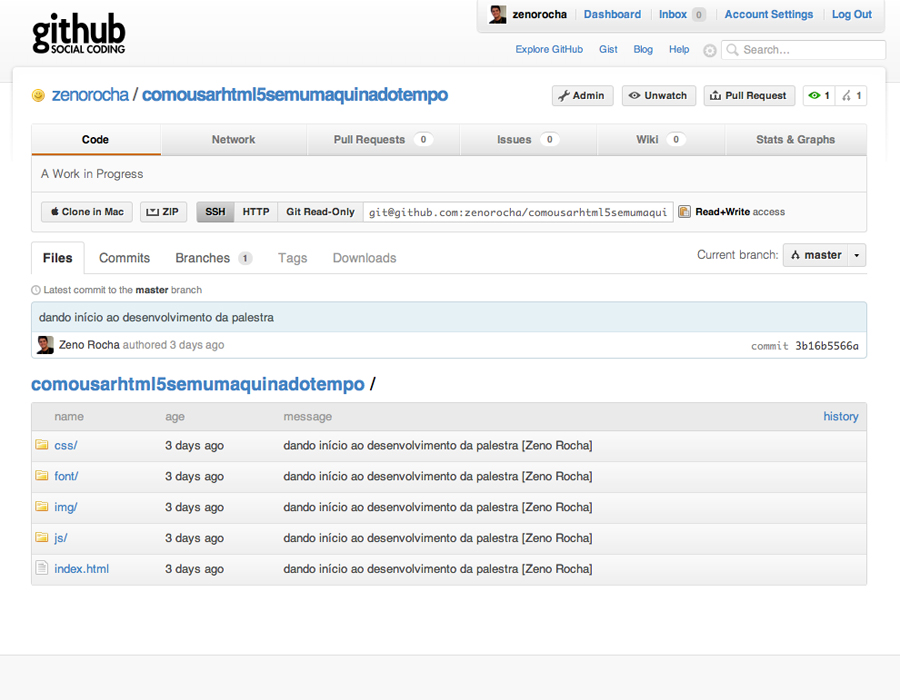
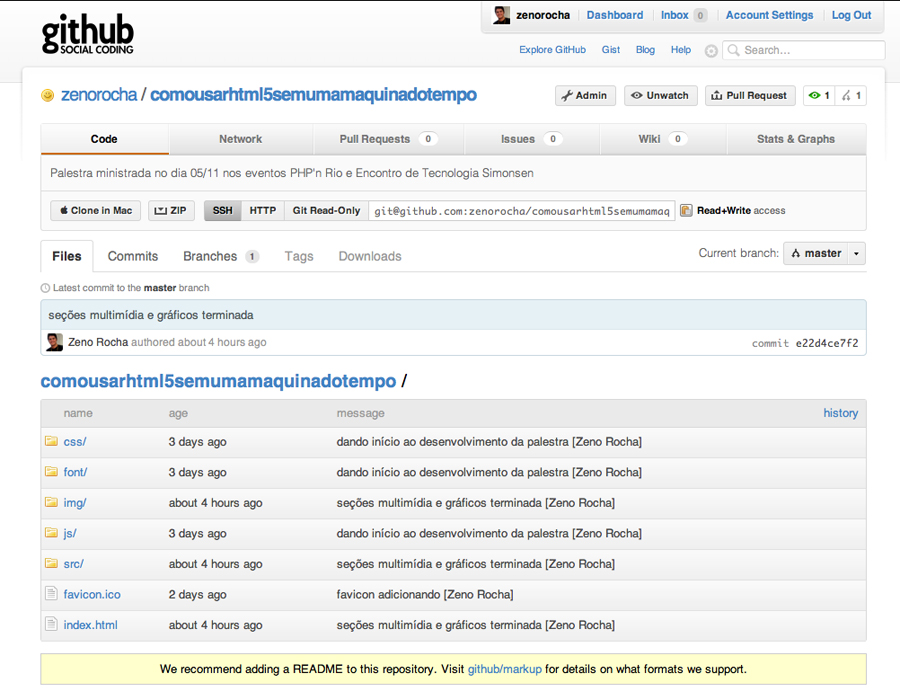
atualização de mais um monte de coisa que eu não lembro mais

diff --git a/index.html b/index.html
@@ -134,16 +134,18 @@
 	#aceite { background: url("img/aceite.jpg"); }
 	#wow { background: url("img/wow.jpg"); }
 	#diveinto { background: url("img/diveinto.jpg"); }			
-	#facebook { background: url("img/facebook.png"); }					
+	#facebook { background: url("img/facebook.png"); }		
+	#salveaweb { background: url("img/salveaweb.jpg"); }		
 	#comousar { background: url("img/comousar.png"); }
 	#w3c-talvez { background: url("img/w3c-talvez.jpg"); }
 	#moda { background: url("img/moda.jpg"); }
 	#eraumavez { background: url("img/suissa/1-eraumavez.jpg"); border: 3px solid #fff !important; }
 	#lancamento-html5 { background: url("img/suissa/2-lancamento-html5.jpg"); border: 3px solid #fff !important; }	
-	#aula { background: url("img/suissa/3-aula.jpg"); border: 3px solid #fff !important; }	
-	#estudou { background: url("img/suissa/4-estudou.jpg"); border: 3px solid #fff !important; }
+	#estudou { background: url("img/suissa/3-estudou.jpg"); border: 3px solid #fff !important; }
+	#aula { background: url("img/suissa/4-aula.jpg"); border: 3px solid #fff !important; }	
 	#w3c-suspende { background: url("img/suissa/5-w3c-suspende.jpg"); border: 3px solid #fff !important; }	
-	#indexeddb { background: url("img/suissa/6-indexeddb.jpg"); border: 3px solid #fff !important; }		
+	#lamentando { background: url("img/suissa/6-lamentando.jpg"); border: 3px solid #fff !important; }		
+	#vivefeliz { background: url("img/suissa/7-vivefeliz.jpg"); border: 3px solid #fff !important; }		
 	#polyfill { background: url("img/polyfill.jpg"); }	
 	#instrucoes { background: url("img/instrucoes2.jpg"); }
 	#ontem { background: url("img/ontem2.jpg"); }
@@ -157,7 +159,7 @@
 	#popcornjs { background: url("img/popcornjs.jpg"); }	
 	#buzz { background: url("img/buzz.jpg"); }		
 	#audiojs { background: url("img/audiojs.jpg"); }		
-	#doismiledoze { background: url("img/2012.jpg"); }	
+	#doismilevintedois { background: url("img/2022.jpg"); }	
 	#maujorsvg { background: url("img/maujorsvg.jpg"); }
 	#learningthreejs { background: url("img/learningthreejs.jpg"); }
 	#polyfill-list { background: url("img/polyfill.jpg"); }
@@ -166,10 +168,15 @@
 	#modernizr { background: url("img/modernizr.jpg"); }
 	#modernizr-pt { background: url("img/modernizr-pt.jpg"); }
 
+	#html5hoje { background: url("img/html5hoje.jpg"); }
+	#viajarnotempo { background: url("img/viajarnotempo.jpg"); }
+
+	#cookies { background: url("img/cookies.jpg"); }
+
 	#github-comousar { background: url("img/github-comousar.jpg"); }
 	#github-diveinto { background: url("img/github-diveinto.jpg"); }
 	
-	#semantica, #armazenamento, #acesso, #conectividade, #multimedia, #graficos, #css3, #wormz, #skin, #capa, #quemsoueu, #instrucoes {
+	#semantica, #armazenamento, #acesso, #conectividade, #multimedia, #graficos, #css3, #wormz, #skin, #capa, #quemsoueu {
 		-moz-box-shadow: inset 0px 0px 250px #000000 !important;
 		-webkit-box-shadow: inset 0px 0px 250px #000000 !important;
 		-o-box-shadow: inset 0px 0px 250px #000000 !important;
@@ -327,6 +334,7 @@
 	
 	#canvas {
 		border: 3px solid #fff !important;
+		background-color: #000 !important;
 	}
 	
 	#canvas h1 {
@@ -382,6 +390,39 @@
 		color: #fff !important;
 		text-decoration: none !important;
 	}
+
+	#exemplo-local {
+		width: 96%;
+		height: 150px;
+		font-size: 105%;
+		padding: 15px;
+		border-radius: 8px;
+		border: 1px solid #CCC;
+		-webkit-box-shadow: 0 3px 10px #ccc inset;
+		outline: none;
+	}
+
+	button {
+		font: 18px Arial, sans-serif;
+		background: -webkit-gradient(linear, 0% 40%, 0% 70%, from(#F9F9F9), to(#E3E3E3));
+		border: 1px solid #CCC;
+		border-radius: 3px;
+		margin: 0 8px 0 0;
+		color: black;
+		padding: 4px 8px 3px;
+		outline: none;
+		white-space: nowrap;
+		vertical-align: middle;
+		-webkit-user-select: none;
+		user-select: none;
+		cursor: pointer;
+	}
+
+	#pronto {
+		margin: -35px 0 0 0 !important;
+		color: #000 !important;
+		font-size: 50px !important;
+	}
 	
 	</style>
 
@@ -390,13 +431,13 @@
 		<article class="nobackground" id="capa"></article>
 
 		<article class="nobackground" id="quemsoueu"></article>
-
-		<!-- <article class="nobackground" id="quem-e"></article> -->
 		
-		<article class="nobackground" id="instrucoes"></article>
+		<article class="nobackground" id="instrucoes">
+			<h3><a href="http://comousarhtml5semumamaquinadotempo.com" target="blank">http://comousarhtml5semumamaquinadotempo.com</a></h3>
+		</article>
 
 		<article class="nobackground" id="github-comousar">
-      		<h3><a href="http://github.com/zenorocha/comousarhtml5semumaquinadotempo" target="blank">http://github.com/zenorocha/comousarhtml5semumaquinadotempo</a></h3>
+      		<h3><a href="http://bit.ly/rYhG1R" target="blank">http://bit.ly/rYhG1R</a></h3>
       	</article>
 	
 		<article class="nobackground" id="moda"></article>
@@ -404,17 +445,21 @@
 		<article class="nobackground" id="w3c-talvez"></article>
 		<article class="nobackground" id="eraumavez"></article>	
 		<article class="nobackground" id="lancamento-html5"></article>	
-		<article class="nobackground" id="aula"></article>	
 		<article class="nobackground" id="estudou"></article>
+		<article class="nobackground" id="aula"></article>	
 		<article class="nobackground" id="w3c-suspende"></article>
-		<article class="nobackground" id="indexeddb"></article>		
-		<article class="nobackground" id="doismiledoze"></article>
+		<article class="nobackground" id="lamentando"></article>		
+		<article class="nobackground" id="vivefeliz"></article>				
 
 		<article class="fill">
-			<iframe src="http://ishtml5readyyet.com/"></iframe>
+			<h1 id="pronto">HTML5 já está pronto?</h1>
+			<iframe style="padding-top: 30px;" src="http://ishtml5readyyet.com/"></iframe>
 		</article>
 
-		<article class="nobackground" id="w3c"></article>
+		<article class="nobackground" id="doismilevintedois"></article>
+		<article class="nobackground" id="viajarnotempo"></article>
+		<article class="nobackground" id="html5hoje"></article>
+		
 		<article class="nobackground" id="aceite"></article>	
 		<article class="nobackground" id="polyfill"></article>
 		
@@ -475,12 +520,59 @@
 				<textarea class="snippet" spellcheck="false" rows="1">&lt;input type="search" placeholder="Pesquisar..." /&gt;</textarea>
 				<p><input type="search" results="10" placeholder="Pesquisar..." /></p>
 			</form>
-		</article>
+		</article>	
 	
 		<article class="nobackground" id="armazenamento">
 			<h1>Armazenamento</h1>
 			<img src="img/categorias/armazenamento.png" alt="Armazenamento">
 		</article>	
+
+		<article class="nobackground" id="cookies">
+			<h1>Cookies</h1>
+			<ul class="build">
+				<li><strong>< 4kb</strong></li>
+				<li><strong>enviado ao servidor a cada requisição</strong></li>
+				<li><strong>performance #fail</strong></li>
+	        </ul>
+		</article>
+
+		<article class="nobackground" id="armazenamento">
+			<h1>Web Storage</h1>
+			<ul class="build">
+				<li>< <strong>5mb</strong></li>
+				<li><strong>não</strong> é enviado ao servidor</li>
+				<li>performance <strong>#win</strong></li>
+				<li>formato chave/valor (hashtable)</li>
+	        </ul>
+		</article>
+
+		<article class="nobackground" id="armazenamento">
+			<h1>session storage</h1>
+			<ul class="build">
+				<li>Armazenamento de dados por sessão
+				<textarea class="snippet" spellcheck="false" rows="2">sessionStorage.setItem('algumaChave', 'algumValorQualquer');
+sessionStorage.getItem('algumaChave'); // 'algumValorQualquer'</textarea></li>
+	        </ul>
+		</article>
+
+		<article class="nobackground" id="armazenamento">
+			<h1>local storage</h1>
+			<ul class="build">
+				<li>Armazenamento de dados sem limite de tempo
+				<textarea class="snippet" spellcheck="false" rows="2">localStorage.setItem('algumaChave', 'algumValorQualquer');
+localStorage.getItem('algumaChave'); // 'algumValorQualquer'</textarea></li>
+				<li>E mais:
+				<textarea class="snippet" spellcheck="false" rows="4">localStorage.length; // número de itens armazenados
+localStorage.key(0); // 'algumValorQualquer'
+localStorage.removeItem('algumValorQualquer');
+localStorage.clear();</textarea>
+	        </ul>
+		</article>
+
+		<article class="nobackground" id="skin">
+			<h1>To-do List</h1>
+			<a href="http://labs.zenorocha.com/html5/local-storage/" target="blank" class="btn"><span>DEMO</span></a>			
+		</article>
 	
 		<article class="nobackground" id="acesso">
 			<h1>Acesso à hardware</h1>
@@ -585,21 +677,17 @@
 		</article>
 		
 		<article class="nobackground" id="videojs">
-			<h3><a href="http://videojs.com/" target="blank">http://videojs.com/</a></h3>
+			<h3><a href="http://bit.ly/swSgir" target="blank">http://bit.ly/swSgir</a></h3>
 		</article>
 		
 		<article class="nobackground" id="popcornjs">
-			<h3><a href="http://popcornjs.org/" target="blank">http://popcornjs.org/</a></h3>
+			<h3><a href="http://bit.ly/rVwXHl" target="blank">http://bit.ly/rVwXHl</a></h3>
 		</article>		
 	
 		<article class="nobackground" id="graficos">
 			<h1>Gráficos</h1>
 			<img src="img/categorias/graficos.png" alt="Gráficos">
 		</article>
-
-		<!-- <article class="fill">
-			<iframe src="http://www.nevermindthebullets.com/"></iframe>
-		</article> -->
 
 		<article class="nobackground" id="graficos">
 			<h1>SVG</h1>
@@ -612,16 +700,6 @@
 &lt;/svg&gt;</textarea></li>
 	        </ul>
 		</article>
-
-<!--		<html>
-<body>
-
-<svg xmlns="http://www.w3.org/2000/svg" version="1.1">
-   <circle cx="100" cy="50" r="40" stroke="black" stroke-width="2" fill="red" />
-</svg> 
- 
-</body>
-</html> -->
 		
 		<article class="nobackground" id="skin">
 			<h1>Park</h1>
@@ -629,11 +707,11 @@
 		</article>
 		
 		<article class="nobackground" id="raphaeljs">
-			<h3><a href="http://raphaeljs.com/" target="blank">http://raphaeljs.com</a></h3>\
+			<h3><a href="http://bit.ly/w0WHUg" target="blank">http://bit.ly/w0WHUg</a></h3>\
 		</article>
 
 		<article class="nobackground" id="maujorsvg">
-			<h3><a href="http://maujorsvg.com.br/" target="blank">http://maujorsvg.com.br</a></h3>
+			<h3><a href="http://bit.ly/tSyZ4S" target="blank">http://bit.ly/tSyZ4S</a></h3>
 		</article>
 		
 		<!-- <article class="nobackground" id="graficos">
@@ -680,11 +758,11 @@ canvas = canvas.getContext("experimental-webgl");</textarea></li>
 
 		<article class="nobackground" id="threejs">
 			<h1 id="three">Quer brincar de verdade?</h1>
-			<h3><a href="https://github.com/mrdoob/three.js" target="blank">https://github.com/mrdoob/three.js</a></h3>
+			<h3><a href="http://bit.ly/sY4hv6" target="blank">http://bit.ly/sY4hv6</a></h3>
 		</article>
 
 		<article class="nobackground" id="learningthreejs">
-			<h3><a href="http://learningthreejs.com/" target="blank">http://learningthreejs.com</a></h3>
+			<h3><a href="http://bit.ly/s9LghM" target="blank">http://bit.ly/s9LghM</a></h3>
 		</article>
 	
 	  	<article class="nobackground" id="css3">
@@ -698,11 +776,11 @@ canvas = canvas.getContext("experimental-webgl");</textarea></li>
 		</article>	
 		
 		<article class="nobackground" id="css3pie">	
-			<h3><a href="http://css3pie.com/" target="blank">http://css3pie.com</a></h3>
+			<h3><a href="http://bit.ly/udDcqH" target="blank">http://bit.ly/udDcqH</a></h3>
 		</article>
 		
 		<article class="nobackground" id="selectvizr">	
-			<h3><a href="http://selectivizr.com/" target="blank">http://selectivizr.com</a></h3>
+			<h3><a href="http://bit.ly/vQcz9p" target="blank">http://bit.ly/vQcz9p</a></h3>
 		</article>
 
       	<article>
@@ -712,27 +790,31 @@ canvas = canvas.getContext("experimental-webgl");</textarea></li>
       	</article>
       
 		<article class="nobackground" id="modernizr">	
-			<h3><a href="http://modernizr.com" target="blank">http://modernizr.com</a></h3>
+			<h3><a href="http://bit.ly/tPaw1E" target="blank">http://bit.ly/tPaw1E</a></h3>
 		</article>
 
 		<article class="nobackground" id="modernizr-pt">	
-			<h3><a href="http://www.andrebuzzo.com.br/bibliotecaModernizr/" target="blank">http://www.andrebuzzo.com.br/bibliotecaModernizr</a></h3>
+			<h3><a href="http://bit.ly/ttr1Aq" target="blank">http://bit.ly/ttr1Aq</a></h3>
 		</article>
 
       	<article class="nobackground" id="diveinto">	
-      		<h3><a href="http://diveintohtml5.com.br" target="blank">http://diveintohtml5.com.br</a></h3>
+      		<h3><a href="http://bit.ly/rMxkO3" target="blank">http://bit.ly/rMxkO3</a></h3>
       	</article>
 
       	<article class="nobackground" id="github-diveinto">	
-      		<h3><a href="https://github.com/zenorocha/diveintohtml5" target="blank">https://github.com/zenorocha/diveintohtml5</a></h3>
+      		<h3><a href="http://bit.ly/rH4BfS" target="blank">http://bit.ly/rH4BfS</a></h3>
       	</article>
 
       	<article class="nobackground" id="facebook">
-      		<h3><a href="http://developers.facebook.com/html5" target="blank">http://developers.facebook.com/html5</a></h3>
+      		<h3><a href="http://bit.ly/rH4BfS " target="blank">http://bit.ly/rH4BfS</a></h3>
       	</article>
 
       	<article class="nobackground" id="polyfill-list">
-      		<h3><a href="https://github.com/Modernizr/Modernizr/wiki/HTML5-Cross-Browser-Polyfills" target="blank">https://github.com/Modernizr/Modernizr/wiki/HTML5-Cross-Browser-Polyfills</a></h3>
+      		<h3><a href="http://bit.ly/svv9BU" target="blank">http://bit.ly/svv9BU</a></h3>
+      	</article>
+
+      	<article class="nobackground" id="salveaweb">
+      		<h3><a href="http://bit.ly/sIbvFv " target="blank">http://bit.ly/sIbvFv </a></h3>
       	</article>
 
     </section>
